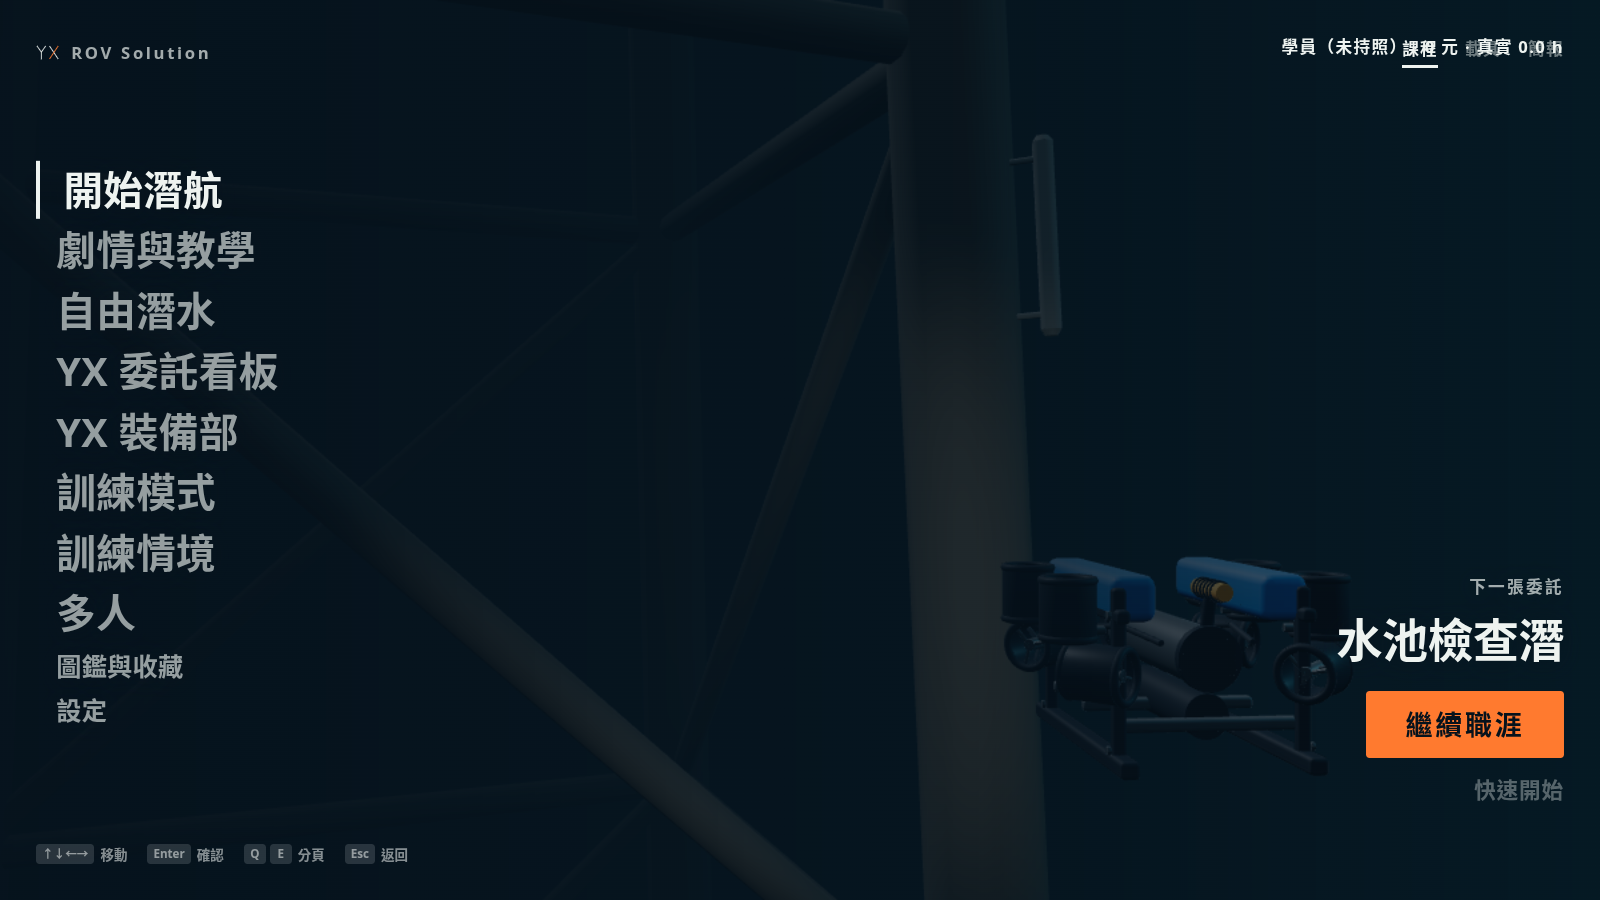
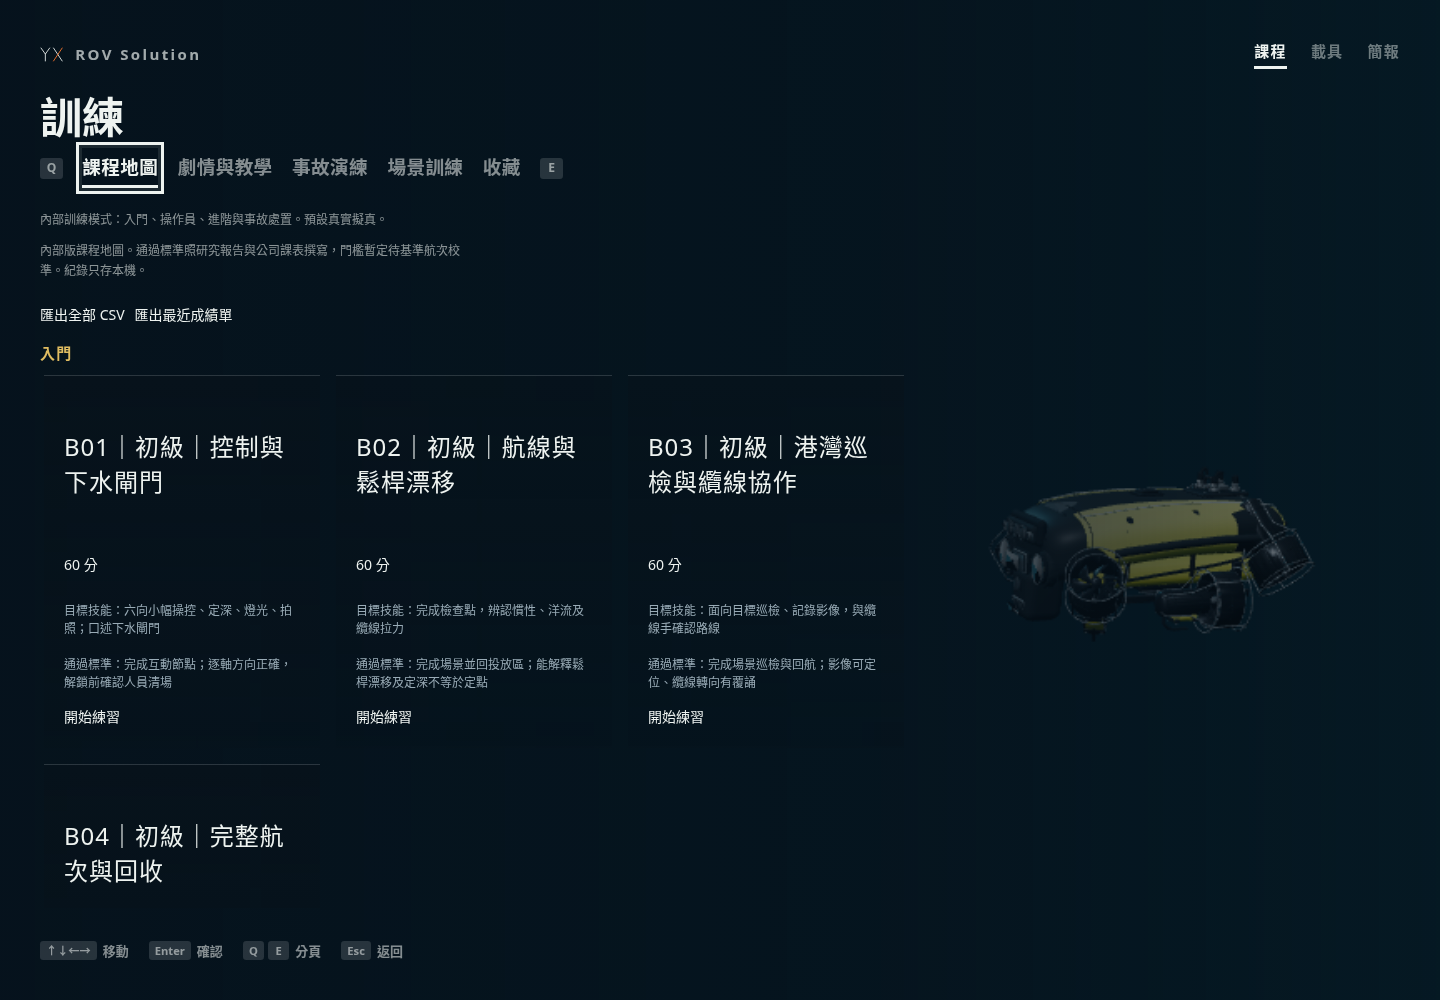
Show the course map action in instructor mission results

diff --git a/simulator/viewer/play/results.js b/simulator/viewer/play/results.js
@@ -6,6 +6,7 @@
 // input/bindings.js through the menu navigator. Retry and next chapter send the same commands the drawer
 // already sends (reset, mission_mode, campaign_start); nothing here changes physics. Every outcome is also
 // announced as a `rov-run-result` event.
+import {labels as editorLabels} from '../training/editor_strings.js';
 import { createMenuNavigator, loadControllerDatabase, renderPrompts } from '../menu/navigator.js';
 import {
   DETAILS_LABEL,
@@ -214,7 +215,9 @@ export function installResults({ send, getState, getWorld, getSession, onContrac
     actions.replaceChildren();
     const lead = host();
     const kind = outcome.kind;
-    if (kind === 'career') {
+    if (outcome.instructorCourse) {
+      button('resultsNext', editorLabels.map, () => toList('courses'), {primary:true});
+    } else if (kind === 'career') {
       button('resultsNext', STRINGS.nextWorkOrder, function nextWorkOrder() {
         location.assign(menuUrl(location.href, 'board'));
       }, { primary: true });
@@ -250,7 +253,7 @@ export function installResults({ send, getState, getWorld, getSession, onContrac
     actions.insertBefore(details, actions.children[2] || null);
     const notes = [];
     if (!lead && kind !== 'contract') notes.push(STRINGS.hostOnly);
-    if (kind === 'chapter' && !outcome.next) notes.push(STRINGS.storyDone);
+    if (kind === 'chapter' && !outcome.next && !outcome.instructorCourse) notes.push(STRINGS.storyDone);
     note.textContent = notes.join(' ');
   }
   function renderRows() {
@@ -276,7 +279,7 @@ export function installResults({ send, getState, getWorld, getSession, onContrac
     const record = recordResult(outcome);
     root.dataset.kind = outcome.kind;
     root.dataset.success = String(outcome.success);
-    kicker.textContent = [kindLabel(outcome.kind), formatTime(outcome.elapsed)].join(' · ');
+    kicker.textContent = [outcome.instructorCourse ? editorLabels.courses : kindLabel(outcome.kind), formatTime(outcome.elapsed)].join(' · ');
     let headingText = outcome.success ? STRINGS.success : STRINGS.failure;
     if (outcome.heading) headingText = outcome.heading;
     else if (outcome.kind === 'contract') headingText = STRINGS.contractDone;

diff --git a/simulator/viewer/play/results_model.js b/simulator/viewer/play/results_model.js
@@ -231,6 +231,7 @@ export function chapterOutcome({ campaign, start = {}, overloads = 0 }) {
   return {
     kind: drill ? 'drill' : 'chapter',
     id: chapterId,
+    instructorCourse: !!custom,
     recordKey: `chapter:${chapterId}`,
     title: chapter.title || chapterId,
     success,
